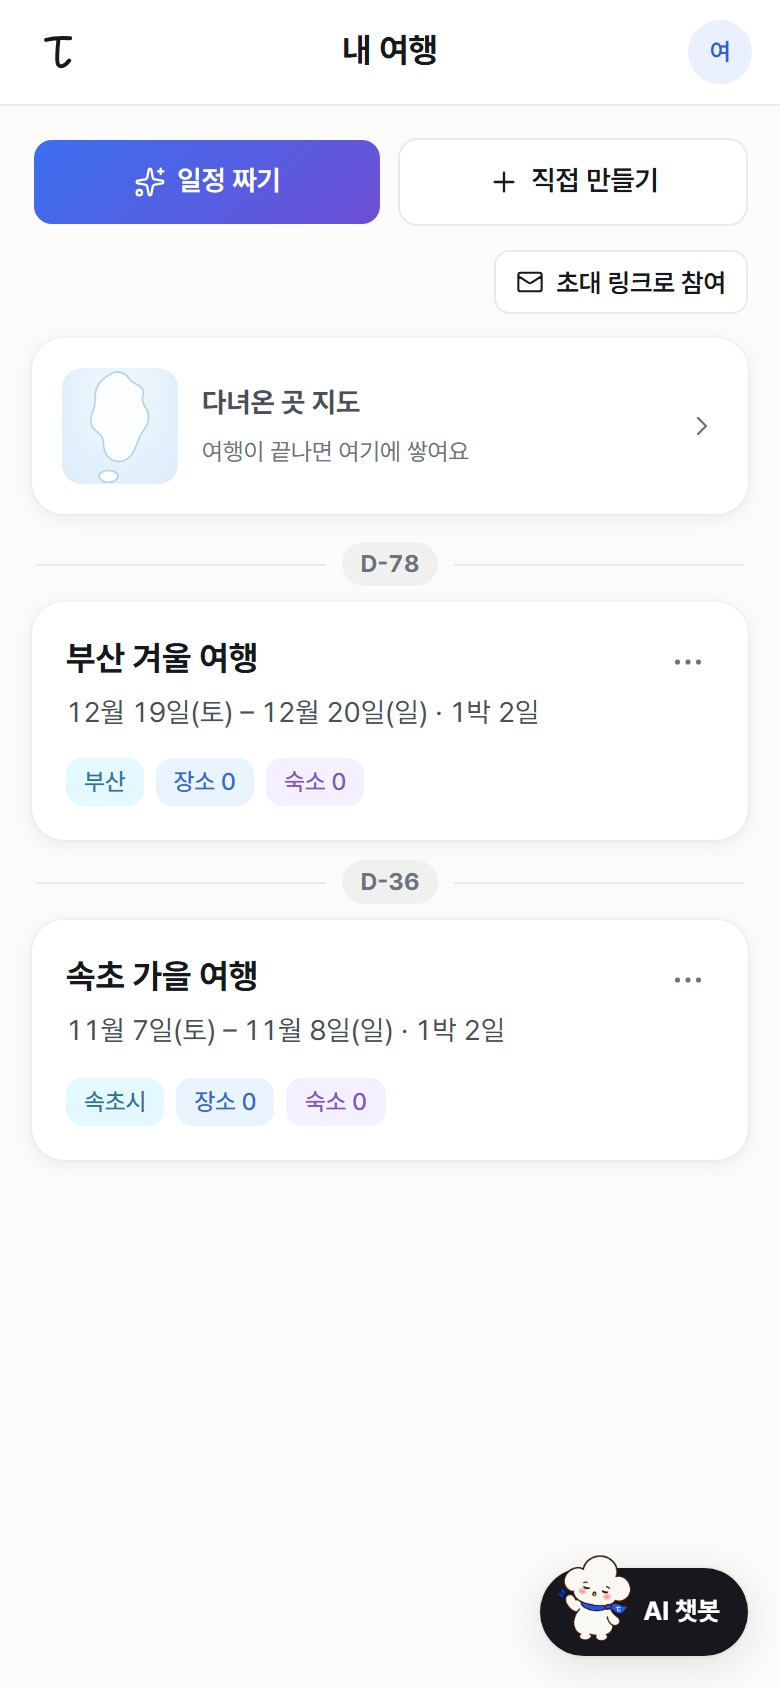
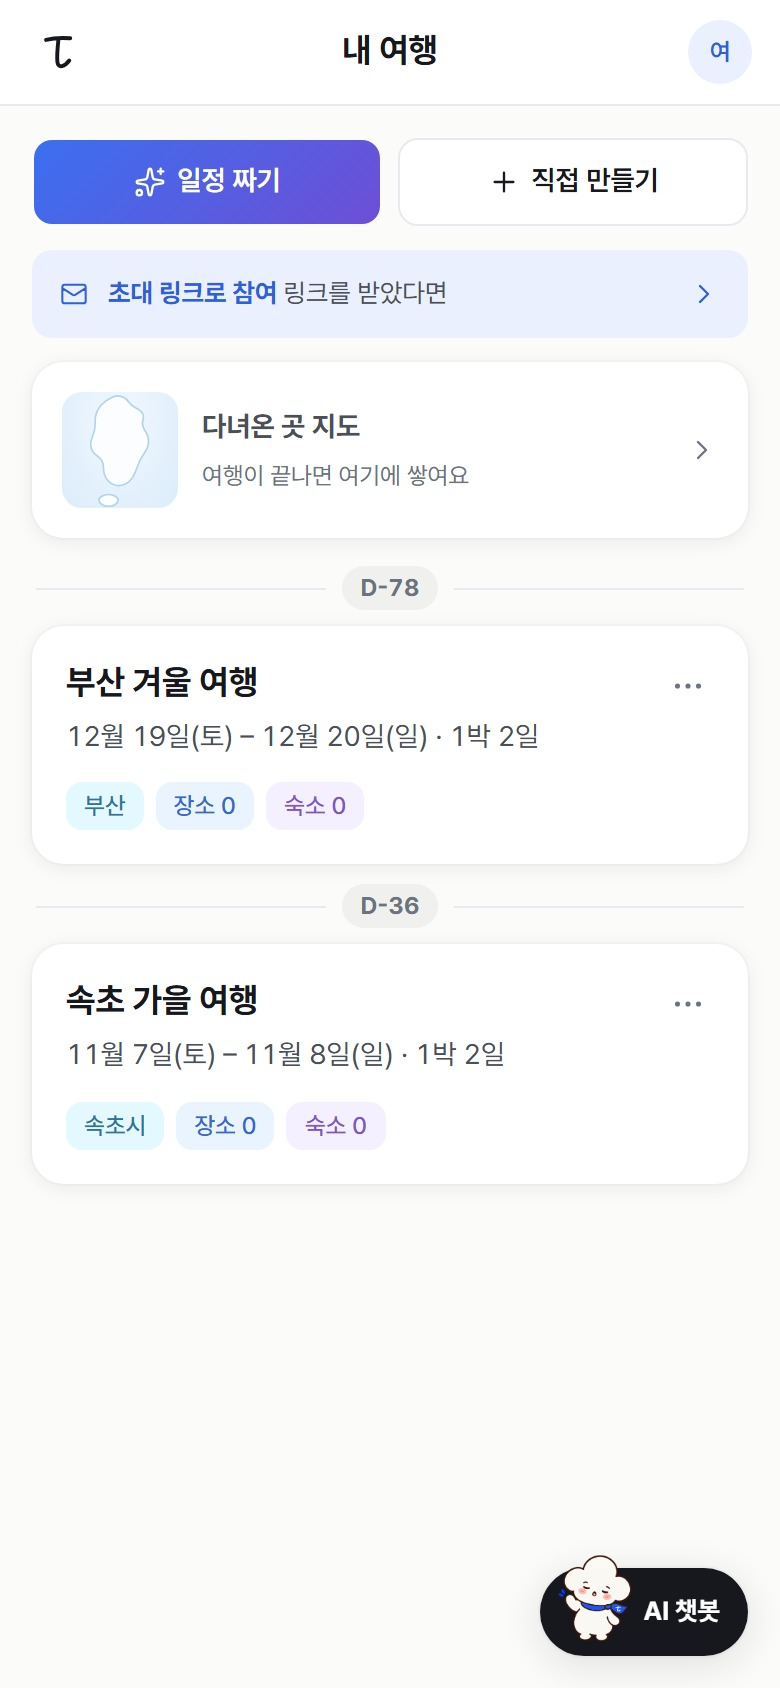
docs: 초대 링크 위치 결정과 사용법 갱신

diff --git a/app/src/app/features/guide/model/guide.ts b/app/src/app/features/guide/model/guide.ts
@@ -21,7 +21,7 @@ export const guideImage = (slide: GuideSlide) => `/guide/${slide.key}.jpg`;
 export const GUIDE_SLIDES: readonly GuideSlide[] = [
   {
     key: 'trips',
-    alt: '여행 목록 화면. 위에 일정 짜기와 직접 만들기 버튼, 아래에 여행 카드, 오른쪽 아래에 AI 챗봇 버튼이 있다',
+    alt: '여행 목록 화면. 위에 일정 짜기와 직접 만들기 버튼, 그 아래 초대 링크로 참여 줄, 아래에 여행 카드, 오른쪽 아래에 AI 챗봇 버튼이 있다',
     title: '여행 목록',
     description: '여행 계획부터 정산까지 이 앱 하나로 해요. 여행 목록에서 시작해요.',
     spots: ['조건만 고르면 AI가 코스를 짜 줘요', '직접 여행을 만들 수도 있어요', '여행 카드를 누르면 상세로 가요', '궁금한 건 AI 챗봇에게 물어봐요', '여행이 끝나면 다녀온 곳이 지도에 쌓여요', '받은 초대 링크를 붙여 넣어 함께해요'],

diff --git a/app/src/app/features/guide/model/guide-marks.ts b/app/src/app/features/guide/model/guide-marks.ts
@@ -25,7 +25,7 @@ export const GUIDE_MARKS: Readonly<Record<string, readonly GuideMark[]>> = {
     {
       "spot": 2,
       "x": 4.1,
-      "y": 35.66,
+      "y": 37.09,
       "w": 91.79,
       "h": 14.16,
       "r": 16
@@ -41,18 +41,18 @@ export const GUIDE_MARKS: Readonly<Record<string, readonly GuideMark[]>> = {
     {
       "spot": 4,
       "x": 4.1,
-      "y": 20.02,
+      "y": 21.45,
       "w": 91.79,
       "h": 10.43,
       "r": 16
     },
     {
       "spot": 5,
-      "x": 63.37,
+      "x": 4.1,
       "y": 14.81,
-      "w": 32.52,
-      "h": 3.79,
-      "r": 8
+      "w": 91.79,
+      "h": 5.21,
+      "r": 10
     }
   ],
   "plan-input": [
